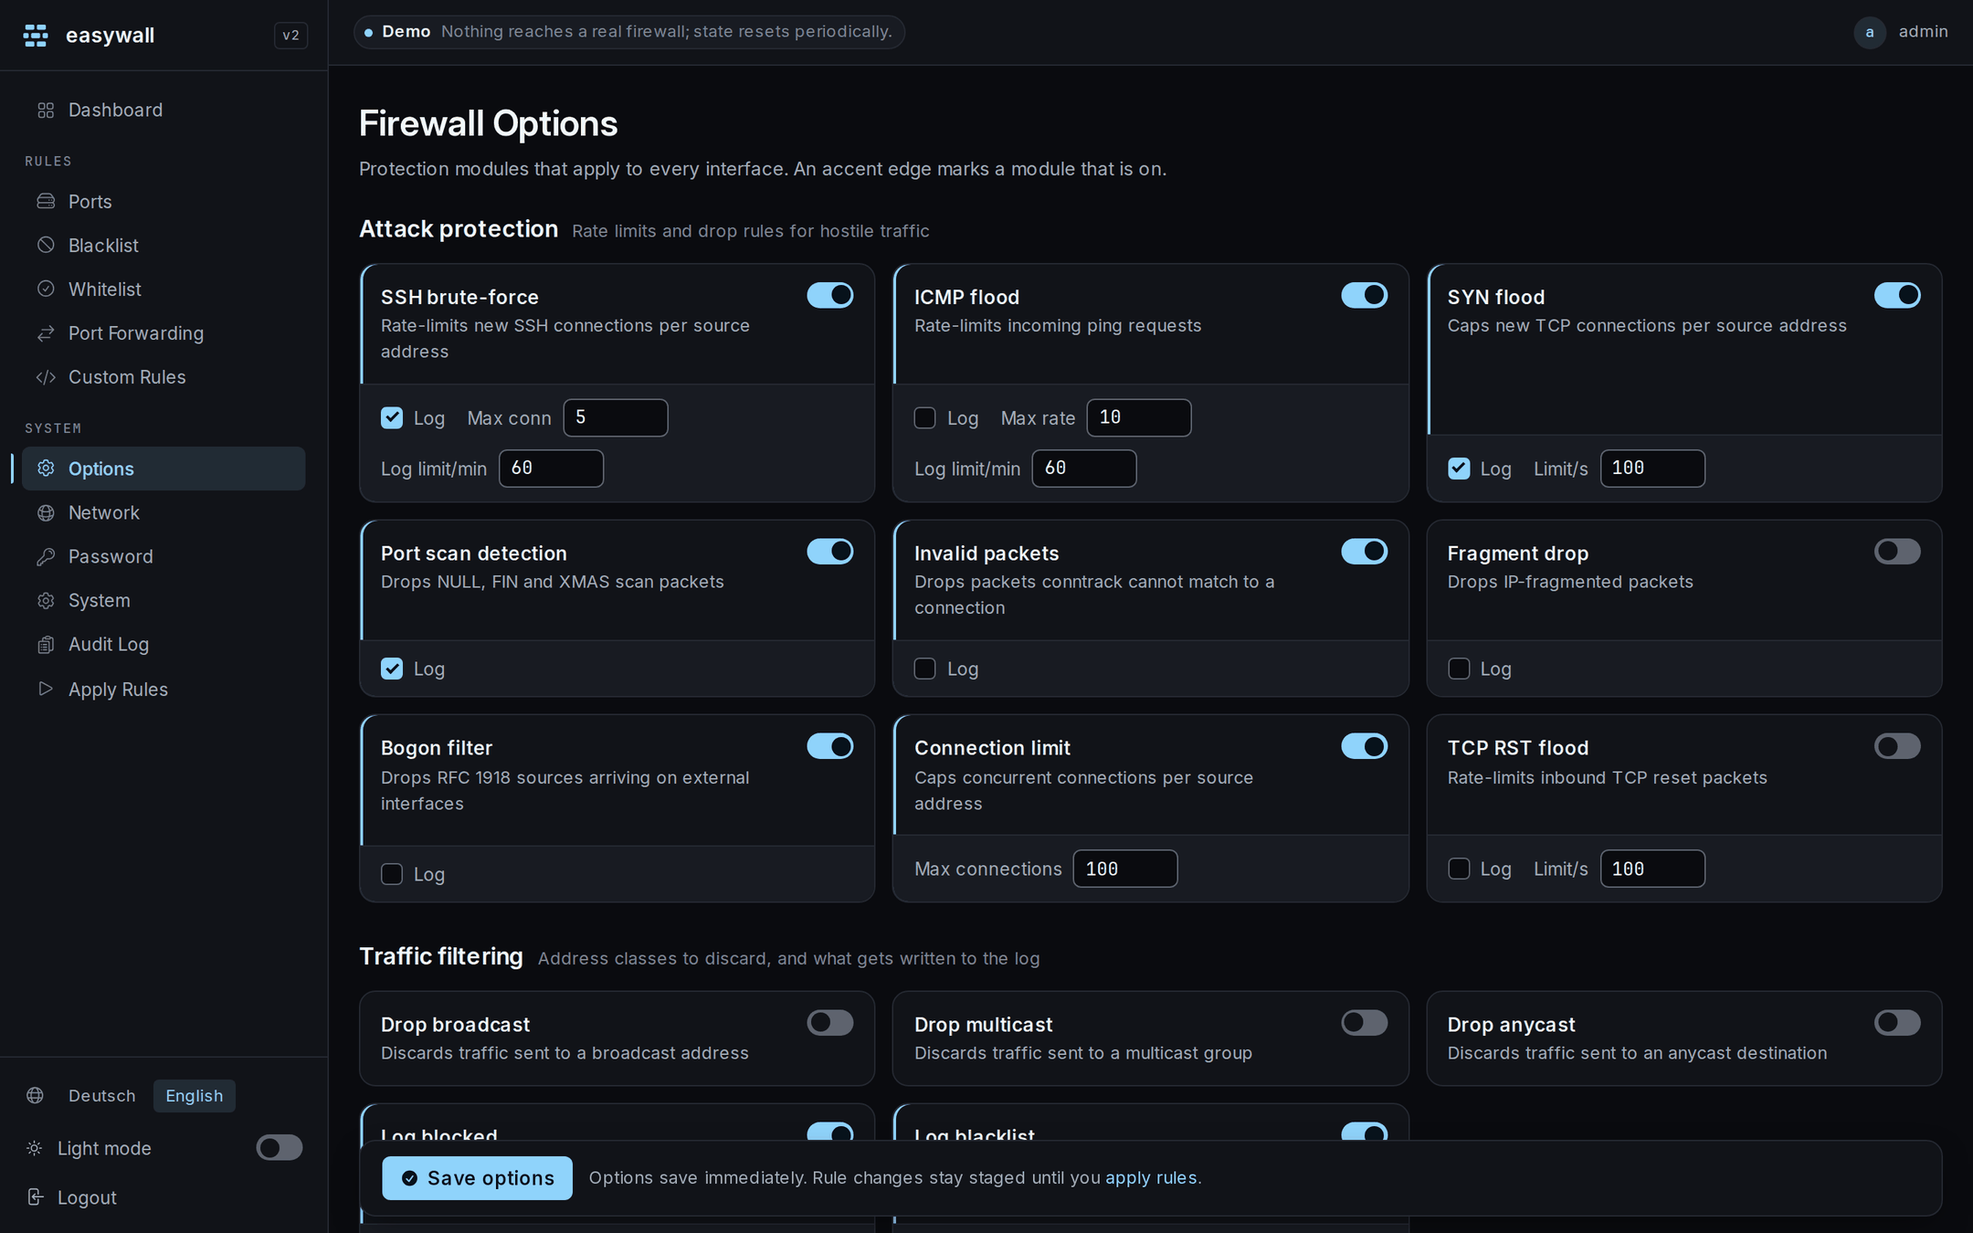
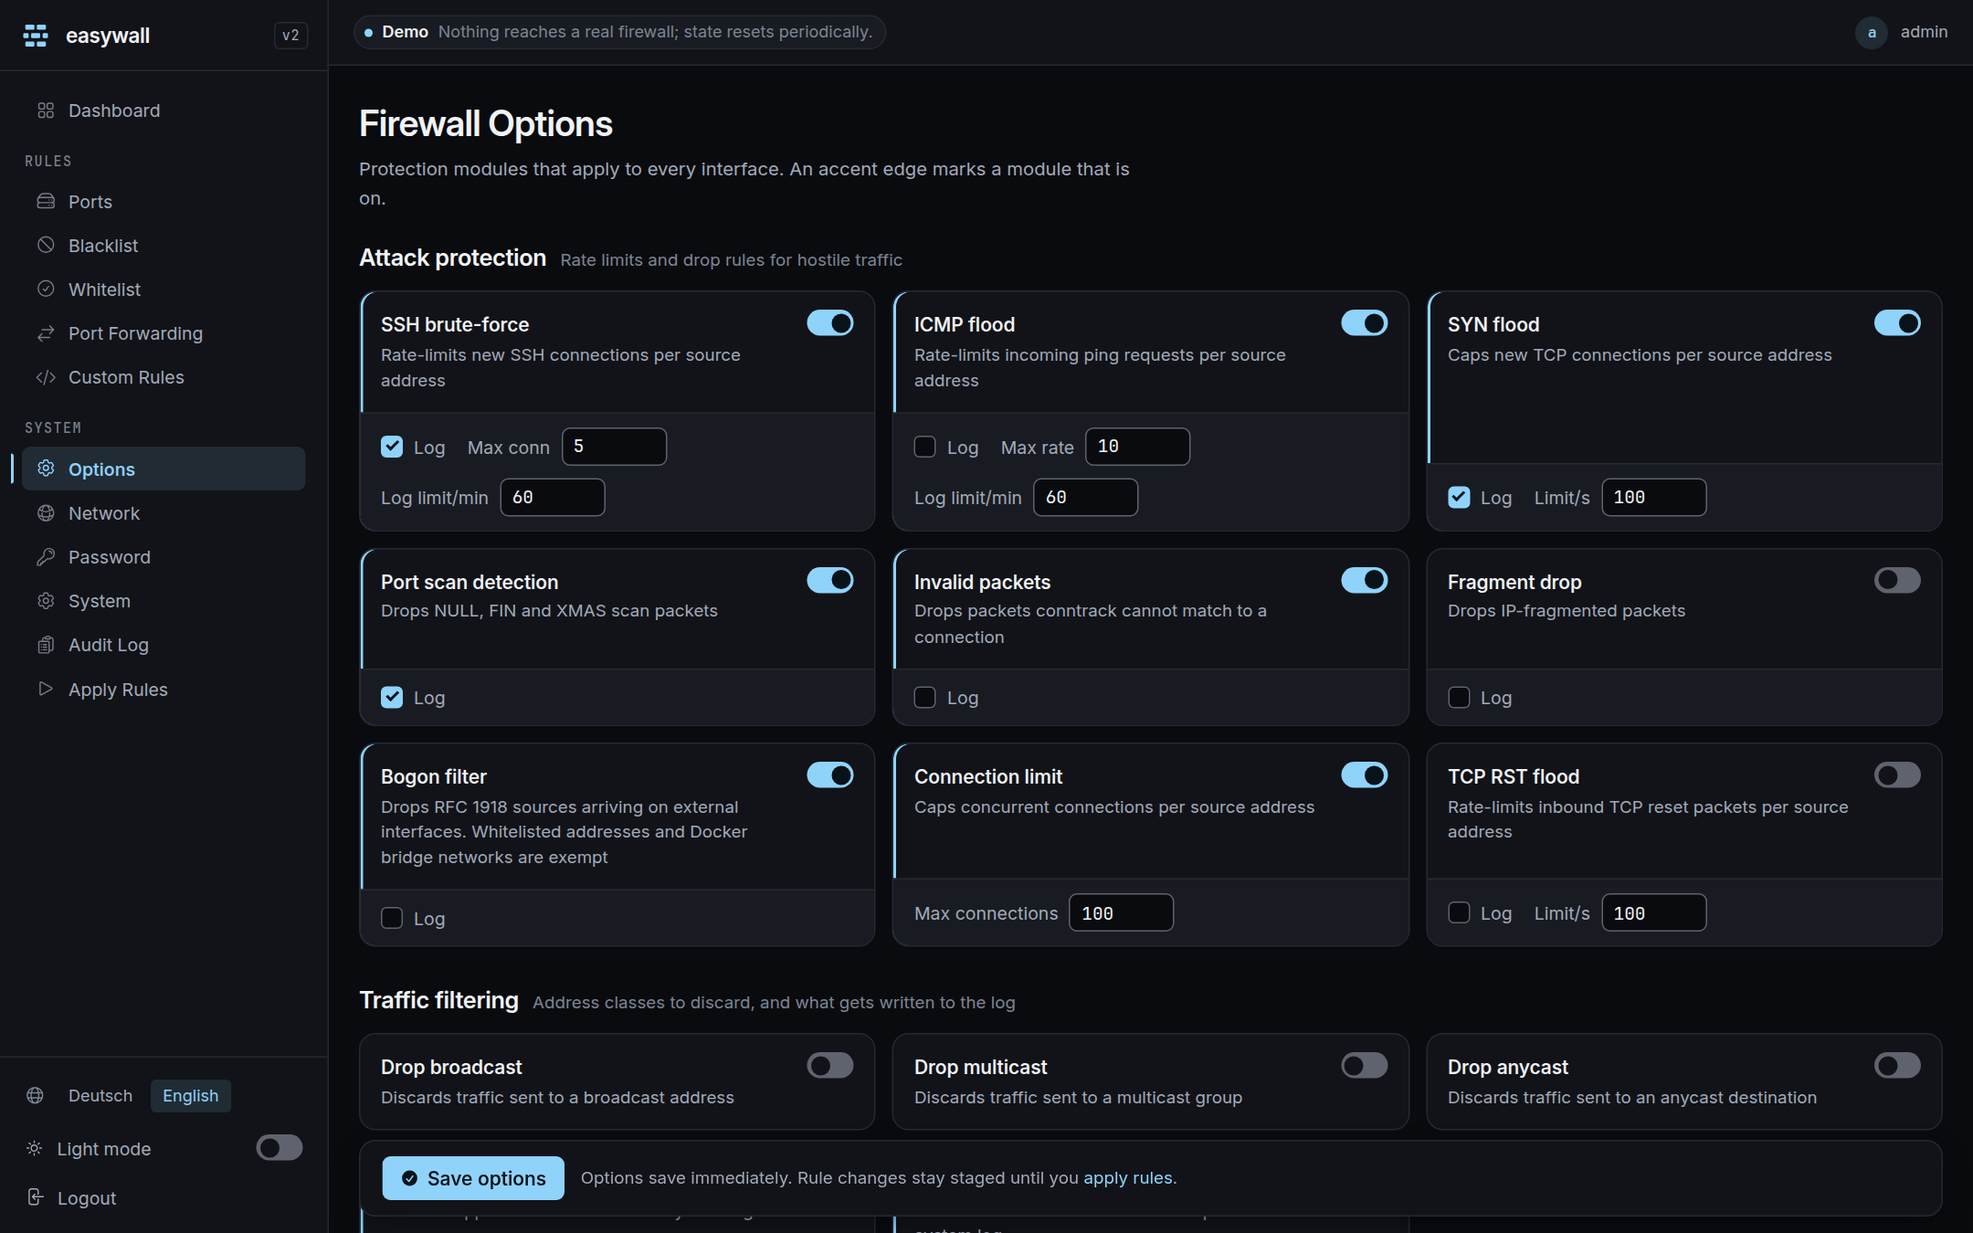
fix(core): stop the bogon filter from dropping what the operator allowed
The bogon filter drops RFC 1918 sources, and it runs before the
whitelist and before the Docker accepts. Both of those are lists of
RFC 1918 addresses. So with the filter on, whitelisting 192.168.1.0/24
did nothing at all, and neither did letting Docker's 172.17.0.0/16
through: the packet was gone long before either rule was reached.

Read back from a real kernel — the drop for 172.16.0.0/12 sat at
position 17, the accept for 172.17.0.0/16 at 23.

Nothing said so. The interface offered a whitelist and a Docker page
that a separate switch quietly turned off, and blacklist.md said the
whitelist survives "every port rule you change" while filters.md told
container hosts to leave this module off entirely.

The drops move into their own chain and the exemptions go in front of
them, so an address the operator allowed returns from the chain and
carries on down the input chain. A `return` in a base chain would fall
through to the drop policy, which is the opposite of an exception.

The whole module is not moved after the whitelist: the order the rest of
the chain runs in is documented on four pages and is right — a
protection module *should* see a packet before an accept rule does. What
was wrong is narrower. This module's premise is "nothing legitimately
has this source address", and an operator who whitelists a private
network has just said otherwise about part of it. The rest of the range
is still dropped, which the tests check.
[…]

diff --git a/internal/core/nftables.go b/internal/core/nftables.go
@@ -359,7 +359,8 @@ func (m *NftablesManager) Apply(state shared.RulesState, opts shared.FirewallOpt
 		m.addFragmentDrop(table, inputChain, opts)
 	}
 	if opts.Bogons {
-		m.addBogonFilter(table, inputChain, opts)
+		m.addBogonFilter(table, inputChain, opts,
+			append(append([]string(nil), state.Current.Whitelist...), dockerCIDRs...))
 	}
 	if opts.ICMPFlood {
 		m.addICMPFloodProtection(table, inputChain, opts)
@@ -694,7 +695,29 @@ func (m *NftablesManager) addFragmentDrop(t *nftables.Table, c *nftables.Chain, 
 		logSpec{enabled: opts.FragmentsLog, prefix: logPrefixFragment})
 }
 
-func (m *NftablesManager) addBogonFilter(t *nftables.Table, c *nftables.Chain, opts shared.FirewallOptions) {
+// addBogonFilter drops sources that cannot legitimately reach a public
+// interface — with an exception for the ones the operator has said can.
+//
+// exempt holds the whitelist and the Docker bridge networks. They are needed
+// here because both are lists of RFC-1918 addresses, which is exactly what this
+// module drops, and it runs first: with the filter on, whitelisting 192.168.1.0/24
+// or letting Docker's 172.17.0.0/16 through did nothing at all, because the
+// packet was already gone by the time either rule was reached. Measured against
+// a kernel — the drop for 172.16.0.0/12 sat at position 17 and the accept for
+// 172.17.0.0/16 at 23.
+//
+// The exceptions go in front of the drops rather than the whole module moving
+// after the whitelist, because the order the rest of the chain runs in is
+// documented on four pages and is right: a protection module *should* see a
+// packet before an accept rule does. What was wrong is narrower than that. This
+// module's premise is "nothing legitimately has this source address", and an
+// operator who whitelists a private network has just said otherwise about part
+// of it. Everything else in the range is still dropped.
+//
+// The drops live in their own chain so an exception can `return` from it and
+// carry on down the input chain; a `return` in a base chain would fall through
+// to the drop policy instead, which is the opposite of an exception.
+func (m *NftablesManager) addBogonFilter(t *nftables.Table, c *nftables.Chain, opts shared.FirewallOptions, exempt []string) {
 	// Drop packets from RFC-1918 and special ranges arriving from non-loopback interfaces.
 	// These are "impossible" sources on the public internet.
 	// filters.md listed "this network" and loopback among the ranges this drops,
@@ -720,42 +743,93 @@ func (m *NftablesManager) addBogonFilter(t *nftables.Table, c *nftables.Chain, o
 		"240.0.0.0/4",     // reserved
 	}
 
-	for _, cidr := range bogons {
-		_, ipNet, err := net.ParseCIDR(cidr)
-		if err != nil {
-			continue
-		}
-		ip := ipNet.IP.To4()
-		mask := []byte(ipNet.Mask)
-		if ip == nil {
-			continue
-		}
+	bogonChain := m.conn.AddChain(&nftables.Chain{Name: "bogon", Table: t})
 
-		match := []expr.Any{
-			// Only for IPv4
+	// The exceptions come first, so a source the operator has allowed leaves
+	// this chain before any drop can see it and carries on down the input chain.
+	for _, cidr := range exempt {
+		match := ipv4SourceMatch(cidr)
+		if match == nil {
+			continue // a comment, an IPv6 address, or unparseable — not for this filter
+		}
+		m.conn.AddRule(&nftables.Rule{
+			Table: t,
+			Chain: bogonChain,
+			Exprs: append(match, &expr.Verdict{Kind: expr.VerdictReturn}),
+		})
+	}
+
+	for _, cidr := range bogons {
+		match := ipv4SourceMatch(cidr)
+		if match == nil {
+			continue
+		}
+		m.addFiltered(t, bogonChain, match, &expr.Verdict{Kind: expr.VerdictDrop},
+			logSpec{enabled: opts.BogonsLog, prefix: logPrefixBogon})
+	}
+
+	// The family and interface tests sit on the jump rather than on each of the
+	// eleven drops. They have to be somewhere: the source-address offset below
+	// is only correct for IPv4, and loopback legitimately carries 127.0.0.0/8.
+	m.conn.AddRule(&nftables.Rule{
+		Table: t,
+		Chain: c,
+		Exprs: []expr.Any{
 			&expr.Meta{Key: expr.MetaKeyNFPROTO, Register: 1},
 			&expr.Cmp{Op: expr.CmpOpEq, Register: 1, Data: []byte{unix.NFPROTO_IPV4}},
-			// Not loopback interface
 			&expr.Meta{Key: expr.MetaKeyIIFNAME, Register: 1},
 			&expr.Cmp{Op: expr.CmpOpNeq, Register: 1, Data: []byte("lo\x00")},
-			// Match source IP in bogon range
-			&expr.Payload{
-				DestRegister: 1,
-				Base:         expr.PayloadBaseNetworkHeader,
-				Offset:       12, // src IP offset in IPv4 header
-				Len:          4,
-			},
-			&expr.Bitwise{
-				SourceRegister: 1,
-				DestRegister:   1,
-				Len:            4,
-				Mask:           mask,
-				Xor:            []byte{0, 0, 0, 0},
-			},
-			&expr.Cmp{Op: expr.CmpOpEq, Register: 1, Data: ip},
+			&expr.Verdict{Kind: expr.VerdictJump, Chain: bogonChain.Name},
+		},
+	})
+}
+
+// ipv4SourceMatch matches an IPv4 source address or network. A bare address is
+// treated as a /32. Returns nil for anything that is not an IPv4 entry —
+// comments, IPv6, and text that does not parse — so callers can skip it.
+func ipv4SourceMatch(entry string) []expr.Any {
+	if shared.IsListComment(entry) {
+		return nil
+	}
+	entry = strings.TrimSpace(entry)
+
+	var ipNet *net.IPNet
+	if ip := net.ParseIP(entry); ip != nil {
+		ip4 := ip.To4()
+		if ip4 == nil {
+			return nil
 		}
-		m.addFiltered(t, c, match, &expr.Verdict{Kind: expr.VerdictDrop},
-			logSpec{enabled: opts.BogonsLog, prefix: logPrefixBogon})
+		ipNet = &net.IPNet{IP: ip4, Mask: net.CIDRMask(32, 32)}
+	} else {
+		_, parsed, err := net.ParseCIDR(entry)
+		if err != nil || parsed.IP.To4() == nil {
+			return nil
+		}
+		ipNet = &net.IPNet{IP: parsed.IP.To4(), Mask: parsed.Mask}
+	}
+
+	return []expr.Any{
+		// The family test is redundant inside a chain only reached for IPv4, and
+		// it stays because nft needs it to print the rule as `ip saddr
+		// 10.0.0.0/8` rather than `@nh,96,32 & 0xff000000 == 0xa000000`. An
+		// operator checking the firewall reads `nft list ruleset`, and a rule
+		// they cannot read is one they cannot check.
+		&expr.Meta{Key: expr.MetaKeyNFPROTO, Register: 1},
+		&expr.Cmp{Op: expr.CmpOpEq, Register: 1, Data: []byte{unix.NFPROTO_IPV4}},
+		&expr.Payload{
+			DestRegister: 1,
+			Base:         expr.PayloadBaseNetworkHeader,
+			Offset:       12, // src IP offset in IPv4 header
+			Len:          4,
+		},
+		&expr.Bitwise{
+			SourceRegister: 1,
+			DestRegister:   1,
+			Len:            4,
+			Mask:           []byte(ipNet.Mask),
+			Xor:            []byte{0, 0, 0, 0},
+		},
+		&expr.Cmp{Op: expr.CmpOpEq, Register: 1, Data: ipNet.IP},
 	}
 }
 

diff --git a/internal/core/nftables_bogon_test.go b/internal/core/nftables_bogon_test.go
@@ -1,0 +1,113 @@
+//go:build integration
+
+package core
+
+import (
+	"strings"
+	"testing"
+
+	"github.com/jp1337/easywall/internal/shared"
+)
+
+// The bogon filter drops RFC-1918 sources, and both the whitelist and the
+// Docker bridge allowance are lists of RFC-1918 networks. The filter runs
+// first, so before the exceptions existed, switching it on silently turned both
+// of those features off — the packet was gone by the time either rule was
+// reached. Measured on a kernel: the drop for 172.16.0.0/12 at position 17, the
+// accept for 172.17.0.0/16 at 23.
+func TestIntegration_BogonFilterLetsThroughWhatTheOperatorAllowed(t *testing.T) {
+	m := newIntegrationManager(t)
+
+	state := emptyState()
+	state.Current.Whitelist = []string{
+		"# the office",
+		"192.168.1.0/24",
+		"10.9.0.5",
+		"2001:db8::1", // IPv6: not this module's business, must not break it
+	}
+
+	opts := shared.FirewallOptions{Bogons: true}
+	docker := shared.DockerConfig{Enabled: true, CustomNetworks: []string{"172.17.0.0/16"}}
+
+	if err := m.Apply(state, opts, shared.NetworkSettings{IPv6: shared.IPv6Config{Mode: shared.IPv6Filter}, Docker: docker}); err != nil {
+		t.Fatalf("Apply: %v", err)
+	}
+
+	rules := chainText(t, "bogon")
+
+	// Every allowed source leaves the chain before any drop.
+	firstDrop := -1
+	for i, r := range rules {
+		if strings.Contains(r, "drop") {
+			firstDrop = i
+			break
+		}
+	}
+	if firstDrop < 0 {
+		t.Fatalf("the bogon chain drops nothing at all:\n%s", strings.Join(rules, "\n"))
+	}
+
+	for _, allowed := range []string{"192.168.1.0/24", "10.9.0.5"} {
+		at := indexOfRule(rules, allowed, "return")
+		if at < 0 {
+			t.Errorf("%s is whitelisted but the bogon chain has no exception for it:\n%s",
+				allowed, strings.Join(rules, "\n"))
+			continue
+		}
+		if at > firstDrop {
+			t.Errorf("the exception for %s is at %d, after the first drop at %d — it can never be reached",
+				allowed, at, firstDrop)
+		}
+	}
+	if at := indexOfRule(rules, "172.17.0.0/16", "return"); at < 0 || at > firstDrop {
+		t.Errorf("the Docker bridge network has no reachable exception (found at %d, first drop at %d):\n%s",
+			at, firstDrop, strings.Join(rules, "\n"))
+	}
+
+	// An exception is not an amnesty for the rest of the range: 192.168.1.0/24
+	// is allowed, 192.168.0.0/16 is still dropped.
+	for _, still := range []string{"0.0.0.0/8", "10.0.0.0/8", "172.16.0.0/12", "192.168.0.0/16", "240.0.0.0/4"} {
+		if indexOfRule(rules, still, "drop") < 0 {
+			t.Errorf("%s is no longer dropped; an exception must narrow the filter, not remove it:\n%s",
+				still, strings.Join(rules, "\n"))
+		}
+	}
+
+	// A comment line and an IPv6 address are not IPv4 exceptions and must not
+	// produce a rule at all.
+	for _, notARule := range []string{"the office", "2001:db8"} {
+		if indexOfRule(rules, notARule) >= 0 {
+			t.Errorf("%q became a rule in the bogon chain:\n%s", notARule, strings.Join(rules, "\n"))
+		}
+	}
+
+	// The input chain reaches the module for IPv4 off loopback, and only there.
+	in := inputChainText(t, m)
+	jump := indexOfRule(in, "jump bogon")
+	if jump < 0 {
+		t.Fatalf("the input chain never jumps to the bogon chain:\n%s", strings.Join(in, "\n"))
+	}
+	if !strings.Contains(in[jump], `iifname != "lo"`) {
+		t.Errorf("the jump to the bogon chain does not exclude loopback: %q", in[jump])
+	}
+}
+
+// With no whitelist and no Docker networks the module is what it always was.
+func TestIntegration_BogonFilterWithoutExceptions(t *testing.T) {
+	m := newIntegrationManager(t)
+
+	if err := m.Apply(emptyState(), shared.FirewallOptions{Bogons: true},
+		shared.NetworkSettings{IPv6: shared.IPv6Config{Mode: shared.IPv6Filter}}); err != nil {
+		t.Fatalf("Apply: %v", err)
+	}
+
+	rules := chainText(t, "bogon")
+	for _, r := range rules {
+		if strings.Contains(r, "return") {
+			t.Errorf("nothing was allowed, so the chain should hold no exceptions; found %q", r)
+		}
+	}
+	if n := len(rules); n != 11 {
+		t.Errorf("expected the eleven documented ranges, got %d rules:\n%s", n, strings.Join(rules, "\n"))
+	}
+}

diff --git a/internal/core/nftables_integration_test.go b/internal/core/nftables_integration_test.go
@@ -517,14 +517,21 @@ func TestIntegration_Apply_BogonFilter_AddsOneRulePerRange(t *testing.T) {
 	base := baseInputRules(t, m)
 
 	applyEmpty(t, m, shared.FirewallOptions{Bogons: true})
-	count := ruleCount(t, m, "input")
+
+	// The drops live in their own chain, so an address the operator allowed can
+	// `return` past them — a return in the base chain would fall through to the
+	// drop policy instead. The input chain therefore gains exactly one rule, the
+	// jump that carries the family and interface tests.
+	if count := ruleCount(t, m, "input"); count != base+1 {
+		t.Errorf("Bogons: expected %d input rules (base=%d + the jump), got %d",
+			base+1, base, count)
+	}
 
 	// Eleven ranges — the same eleven filters.md lists. It used to list two
 	// that were not here and omit two that were.
 	const bogonCount = 11
-	if count != base+bogonCount {
-		t.Errorf("Bogons: expected %d rules (base=%d + %d bogons), got %d",
-			base+bogonCount, base, bogonCount, count)
+	if count := ruleCount(t, m, "bogon"); count != bogonCount {
+		t.Errorf("Bogons: expected %d drops in the bogon chain, got %d", bogonCount, count)
 	}
 }
 

diff --git a/docs/features/filters.md b/docs/features/filters.md
@@ -115,9 +115,30 @@ spoofed — nothing on the public internet legitimately has such a source addres
 this one: `fe80::/10` is link-local, and IPv6 needs neighbour discovery on it to
 function at all.
 
-> **Not for hosts behind NAT.** On a cloud instance or a LAN, RFC 1918 *is* the real
-> network and this filter drops your own traffic. Same for container hosts — see
-> [Docker coexistence]({{ '/features/docker/' | relative_url }}).
+### What it does not drop
+
+Anything on the whitelist, and any Docker bridge network, is exempt. Both are lists
+of RFC 1918 addresses, which is exactly what this filter drops — and it runs before
+either of them, so switching it on used to turn both features off without saying so.
+Whitelisting `192.168.1.0/24` had no effect at all, and neither did letting Docker's
+`172.17.0.0/16` through.
+
+An exemption is narrow: it covers what you allowed and nothing more. Whitelist
+`192.168.1.0/24` and the rest of `192.168.0.0/16` is still dropped.
+
+```
+# nft list chain inet easywall bogon
+ip saddr 192.168.1.0/24 return      ← whitelisted
+ip saddr 172.17.0.0/16 return       ← Docker bridge
+ip saddr 10.0.0.0/8 drop
+ip saddr 192.168.0.0/16 drop        ← the rest of the range, still dropped
+...
+```
+
+> **Still not for every host.** If you administer the machine from an RFC 1918
+> address, whitelist that address first — the exemption is what makes this filter
+> safe to switch on, and it only covers what is on the list when the rules are
+> applied.
 >
 > **Not for a DHCP server either.** A client requesting a lease has no address yet and
 > sends from `0.0.0.0`, which this filter drops.
@@ -173,8 +194,8 @@ This is the *kernel* log — packets. Administrative changes are in the
 | Host | Turn on | Leave off |
 |---|---|---|
 | Public server, static address | Everything under Attack protection, plus the bogon filter | Fragment drop, unless you know your traffic |
-| Behind NAT, or on a LAN | SSH brute-force, SYN flood, port scan, invalid packets | Bogon filter, broadcast/multicast/anycast |
-| Container host | The defaults | Bogon filter — bridge ranges are RFC 1918 |
+| Behind NAT, or on a LAN | SSH brute-force, SYN flood, port scan, invalid packets. The bogon filter too, once your own network is whitelisted | Broadcast/multicast/anycast |
+| Container host | The defaults. The bogon filter is safe with Docker coexistence on — bridge networks are exempt | — |
 
 The interface writes the same `[firewall]` section you would edit by hand; every key
 is listed under [Configuration]({{ '/configuration/' | relative_url }}).

diff --git a/docs/features/blacklist.md b/docs/features/blacklist.md
@@ -31,7 +31,7 @@ the blacklist instead.
 | Effect | DROP | ACCEPT |
 | Evaluated | before the whitelist | after the blacklist, before the ports |
 | Reaches closed ports | — | **yes, every port** |
-| Skips the protection modules | no — those run first | no — those run first |
+| Skips the protection modules | no — those run first | no — those run first, except the bogon filter, which reads this list |
 | Use it for | a scanner, an abusive network | the address you administer from |
 
 > **A whitelisted source reaches services you never opened.** It does not pass the
@@ -59,8 +59,12 @@ changing port rules. It survives a closed SSH port and every port rule you chang
 **It does not exempt you from the protection modules.** Those are evaluated before the
 whitelist, as the diagram above shows — a packet a module drops never reaches it. That
 matters least for the rate limits, which are counted per source address, so somebody
-else's flood cannot consume your budget; it matters most for the bogon filter, which
-will drop you outright if you administer the host from an RFC 1918 address.
+else's flood cannot consume your budget.
+
+The one exception is the [bogon filter]({{ '/features/filters/' | relative_url }}),
+which reads the whitelist itself. It drops private source addresses, so without that
+it would drop you outright for administering the host from one — and the whitelist
+entry meant to prevent exactly that could never be reached.
 
 Together with the [acceptance window]({{ '/architecture/' | relative_url }}) that is two
 independent ways not to lose access to your own machine.
@@ -69,7 +73,7 @@ independent ways not to lose access to your own machine.
 
 | Symptom | Cause |
 |---|---|
-| A whitelisted address is still blocked | It is on the blacklist too — that is checked first. Or a protection module dropped it, which also happens before the whitelist |
+| A whitelisted address is still blocked | It is on the blacklist too — that is checked first. Or a protection module dropped it, which happens before the whitelist. The bogon filter is the exception: it honours the whitelist |
 | A blacklisted address still gets through | The connection was already established; the list only affects new ones |
 | Nothing changed after saving | Saving stages. It goes live on [Apply]({{ '/architecture/' | relative_url }}) |
 | The editor names a line number | That line is not a valid address or CIDR; the message says why |

diff --git a/docs/features/docker.md b/docs/features/docker.md
@@ -43,6 +43,12 @@ afterwards needs another apply, or an entry in `custom_networks`.
 > [`[routing]`]({{ '/configuration/' | relative_url }}#routing) if this host routes
 > for some other reason as well.
 
+> **The bogon filter and bridge networks get along.** Bridge ranges are RFC 1918,
+> which is exactly what that module drops — so it reads the networks listed here and
+> exempts them. Before it did, switching the filter on silently undid Docker
+> coexistence: the packet was dropped long before the rule allowing it was reached.
+> See [firewall filters]({{ '/features/filters/' | relative_url }}).
+
 ## Three ways to run them together
 
 | | Setup | Container ports reachable from outside | Good for |
